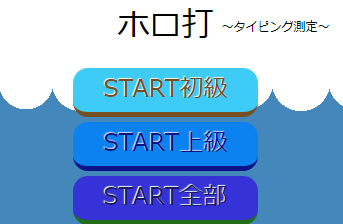
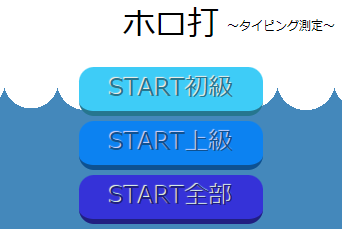
ボタンのデザインとツイッターカードの情報を更新

diff --git a/style.css b/style.css
@@ -63,39 +63,39 @@ body{
 }
 
 .startButton1{
-    background-color: rgb(247, 160, 62);
-    color: rgb(117, 78, 33);
+    background-color: rgb(84, 247, 62);
+    color: rgb(55, 155, 41);
     padding: 4px 30px;
     border: none;
     outline: none;
     border-radius: 15px;
     cursor: pointer;
-    text-shadow: -1px -1px 1px rgb(248, 239, 230);
-    border-bottom: 5px solid rgb(117, 78, 33);
+    text-shadow: -1px -1px 1px #FFF;
+    border-bottom: 5px solid rgb(55, 155, 41);
 }
 
 .startButton2{
-    background-color: rgb(12, 27, 241);
-    color: rgb(10, 19, 136);
+    background-color: rgb(244, 247, 62);
+    color: rgb(128, 129, 34);
     padding: 4px 30px;
     border: none;
     outline: none;
     border-radius: 15px;
     cursor: pointer;
-    text-shadow: -1px -1px 1px rgb(210, 213, 255);
-    border-bottom: 5px solid rgb(10, 19, 136);
+    text-shadow: -1px -1px 1px #FFF;
+    border-bottom: 5px solid rgb(128, 129, 34);
 }
 
 .startButton3{
-    background-color: rgb(69, 216, 50);
-    color: rgb(33, 110, 23);
+    background-color: rgb(216, 69, 50);
+    color: rgb(158, 56, 42);
     padding: 4px 30px;
     border: none;
     outline: none;
     border-radius: 15px;
     cursor: pointer;
-    text-shadow: -1px -1px 1px rgb(232, 255, 230);
-    border-bottom: 5px solid rgb(33, 110, 23);
+    text-shadow: -1px -1px 1px #FFF;
+    border-bottom: 5px solid rgb(158, 56, 42);
 }
 
 .startButton4{

diff --git a/holoda/style.css b/holoda/style.css
@@ -65,38 +65,38 @@ body{
 
 .startButton1{
     background-color: rgb(62, 204, 247);
-    color: rgb(117, 78, 33);
+    color: rgb(38, 118, 143);
     padding: 4px 30px;
     border: none;
     outline: none;
     border-radius: 15px;
     cursor: pointer;
     text-shadow: -1px -1px 1px rgb(248, 239, 230);
-    border-bottom: 5px solid rgb(117, 78, 33);
+    border-bottom: 5px solid rgb(38, 118, 143);
 }
 
 .startButton2{
     background-color: rgb(12, 130, 241);
-    color: rgb(10, 19, 136);
+    color: rgb(14, 81, 145);
     padding: 4px 30px;
     border: none;
     outline: none;
     border-radius: 15px;
     cursor: pointer;
     text-shadow: -1px -1px 1px rgb(210, 213, 255);
-    border-bottom: 5px solid rgb(10, 19, 136);
+    border-bottom: 5px solid rgb(14, 81, 145);
 }
 
 .startButton3{
     background-color: rgb(53, 50, 216);
-    color: rgb(32, 23, 110);
+    color: rgb(33, 31, 129);
     padding: 4px 30px;
     border: none;
     outline: none;
     border-radius: 15px;
     cursor: pointer;
     text-shadow: -1px -1px 1px rgb(232, 255, 230);
-    border-bottom: 5px solid rgb(33, 110, 23);
+    border-bottom: 5px solid rgb(33, 31, 129);
 }
 
 .startButton4{
